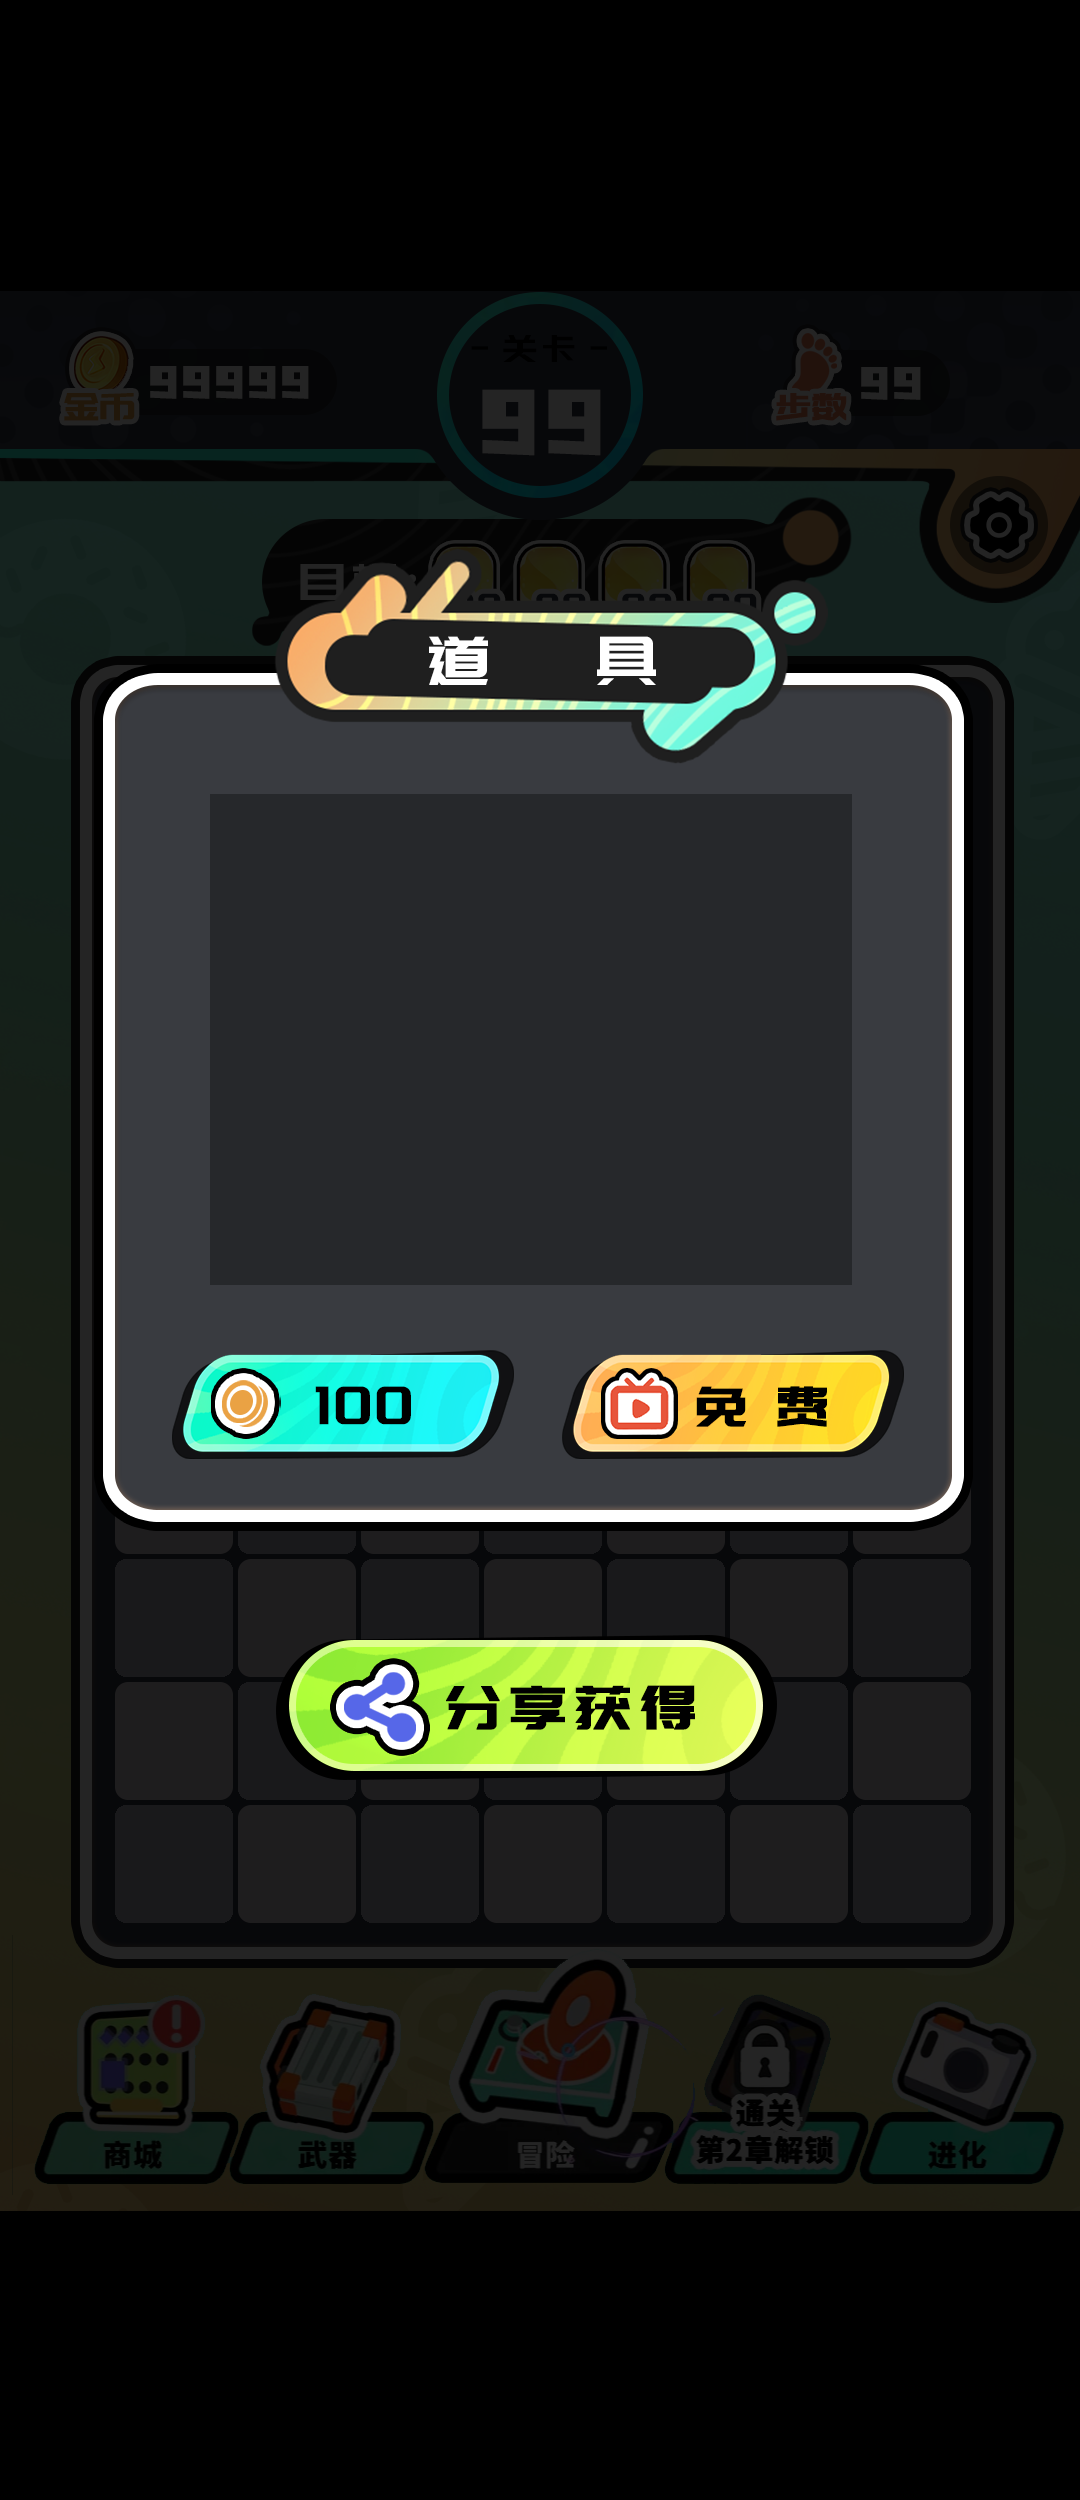
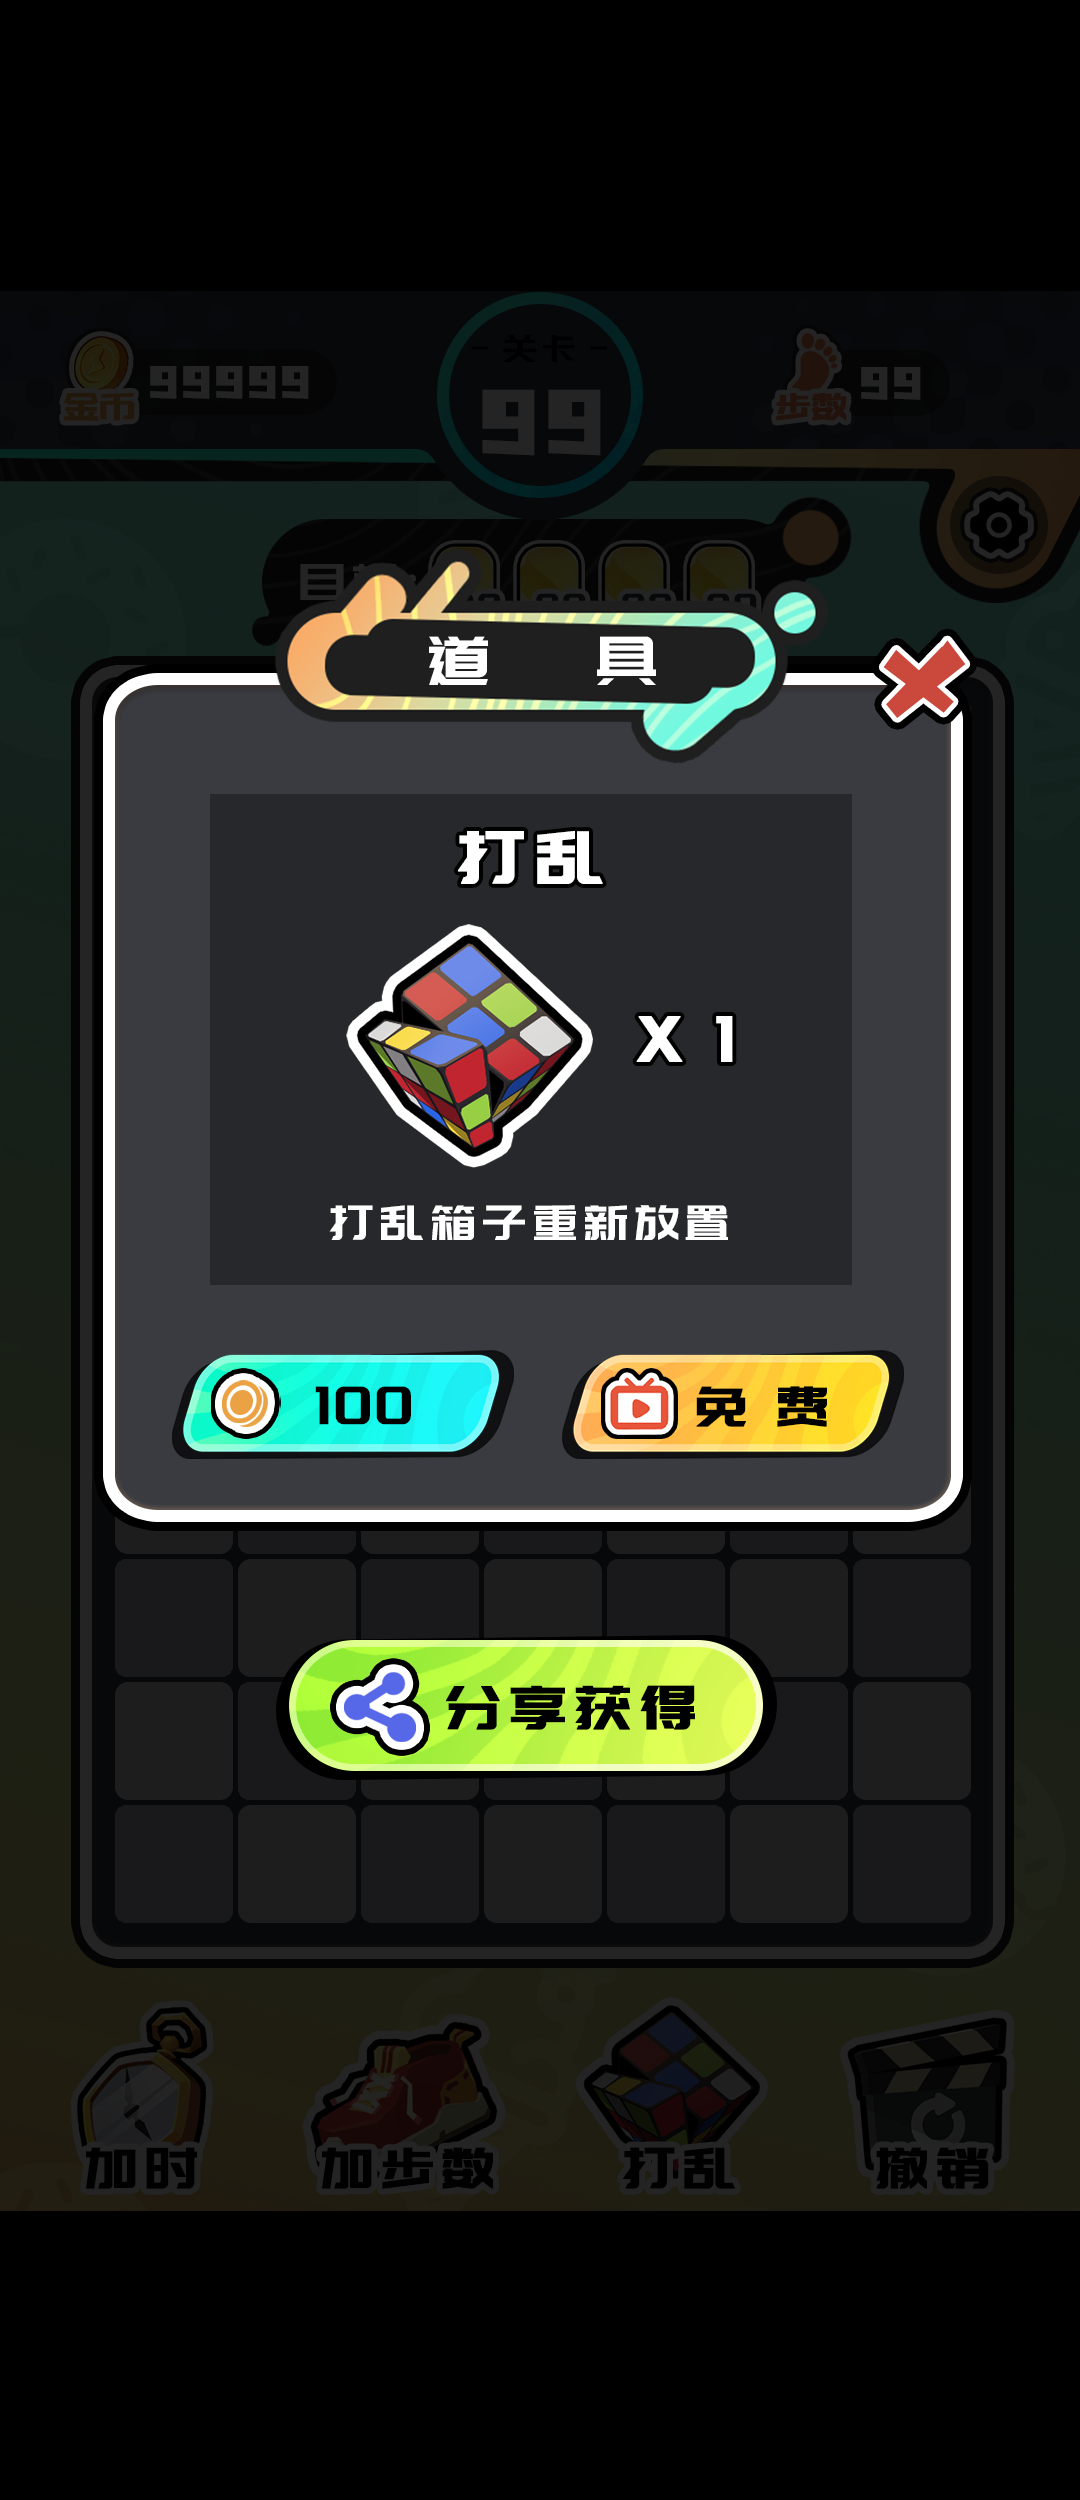
道具UI

diff --git a/Assets/Scripts/UI/Window/GameWindow.cs b/Assets/Scripts/UI/Window/GameWindow.cs
@@ -91,7 +91,7 @@ public class GameWindow : MonoBehaviour
         //添加步数
         m_BtnStep.onClick.AddListener(()=>{
             GameFacade.Instance.UIManager.LoadWindow("PropUseWindow", UIManager.BOARD).GetComponent<PropUseWindow>()
-                .Init(100, "Prop_miaobiao", "增加 <#00FFBF>5</color> 行动步数", ()=>{
+                .Init(100, "Prop_xie", "增加 <#00FFBF>5</color> 行动步数", ()=>{
                     Debug.Log("添加步数");
                     Field.Instance.ad_add_step(5);
                 });
@@ -100,7 +100,7 @@ public class GameWindow : MonoBehaviour
         //打乱方块
         m_BtnShuffle.onClick.AddListener(()=>{
             GameFacade.Instance.UIManager.LoadWindow("PropUseWindow", UIManager.BOARD).GetComponent<PropUseWindow>()
-                .Init(100, "Prop_miaobiao", "打乱场上方块重新排列", ()=>{
+                .Init(100, "Prop_mofang", "使场上方块重新排列", ()=>{
                     Field.Instance.ad_shuffle();
                 });
         });
@@ -113,7 +113,7 @@ public class GameWindow : MonoBehaviour
             }
 
             GameFacade.Instance.UIManager.LoadWindow("PropUseWindow", UIManager.BOARD).GetComponent<PropUseWindow>()
-                .Init(50, "Prop_miaobiao", "撤回上一步的操作", ()=>{
+                .Init(50, "Prop_daban", "撤回上一步的操作", ()=>{
                     Field.Instance.ad_revoke();
                 });
         });

diff --git a/Assets/Scripts/UI/Window/PropUseWindow.cs b/Assets/Scripts/UI/Window/PropUseWindow.cs
@@ -35,6 +35,8 @@ public class PropUseWindow : MonoBehaviour
             GameFacade.Instance.DataCenter.User.UpdateCoin(-m_Cost);
             EventManager.SendEvent(new GameEvent(EVENT.UI_UPDATECOIN));
 
+            GameFacade.Instance.SoundManager.Load(SOUND.COIN);
+
             m_Callback();
             GameFacade.Instance.UIManager.UnloadWindow(gameObject);
         });

diff --git a/Assets/Scripts/SOUND.cs b/Assets/Scripts/SOUND.cs
@@ -11,6 +11,7 @@ public static class SOUND
 
 
     //音效
+    public const string COIN        = "Prefab/Sound/Sound_coin";
     public const string CLICK       = "Prefab/Sound/Sound_click";
     public const string HIT         = "Prefab/Sound/Sound_hit";
     public const string EXCHANGE    = "Prefab/Sound/Sound_exchange";
